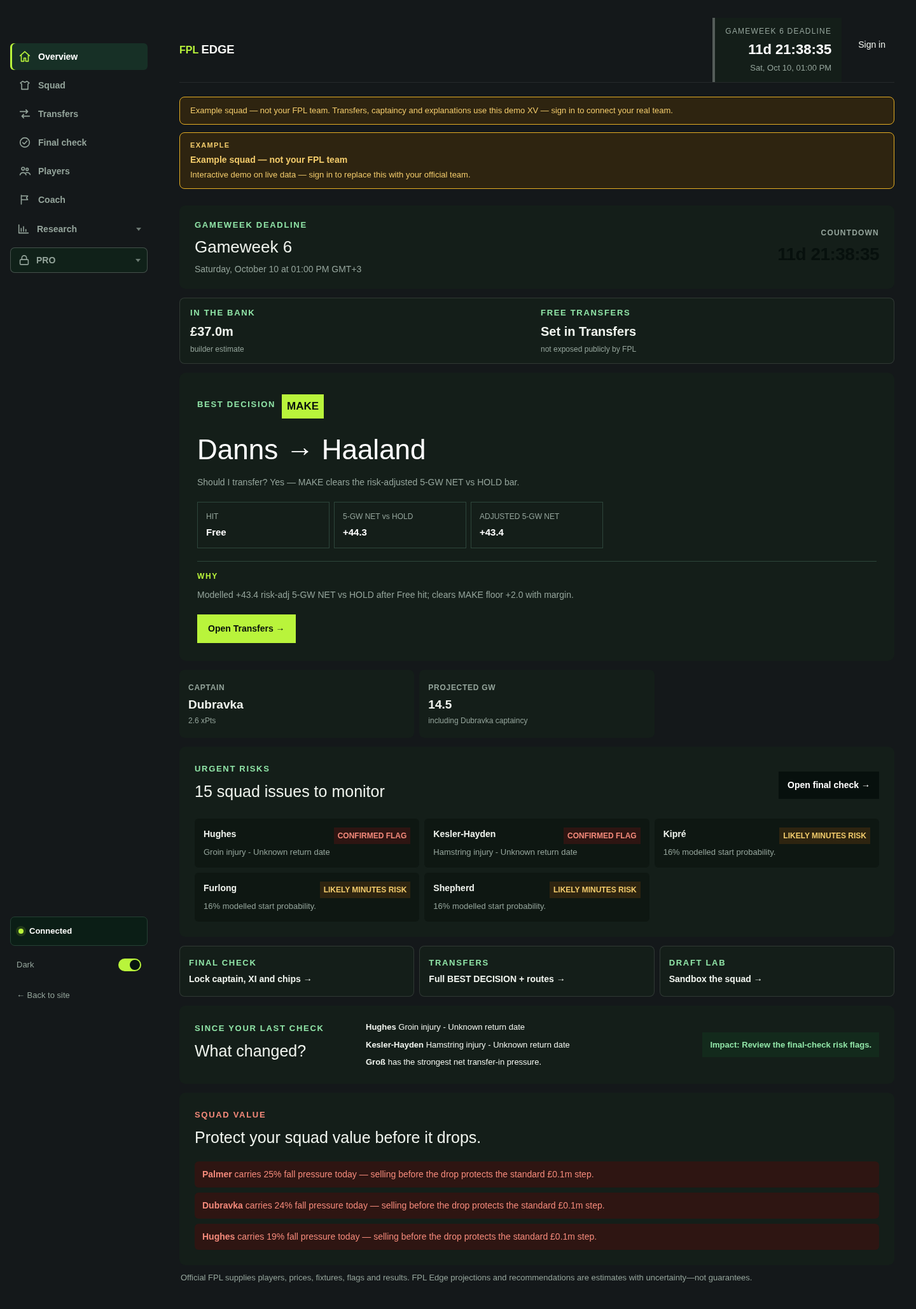
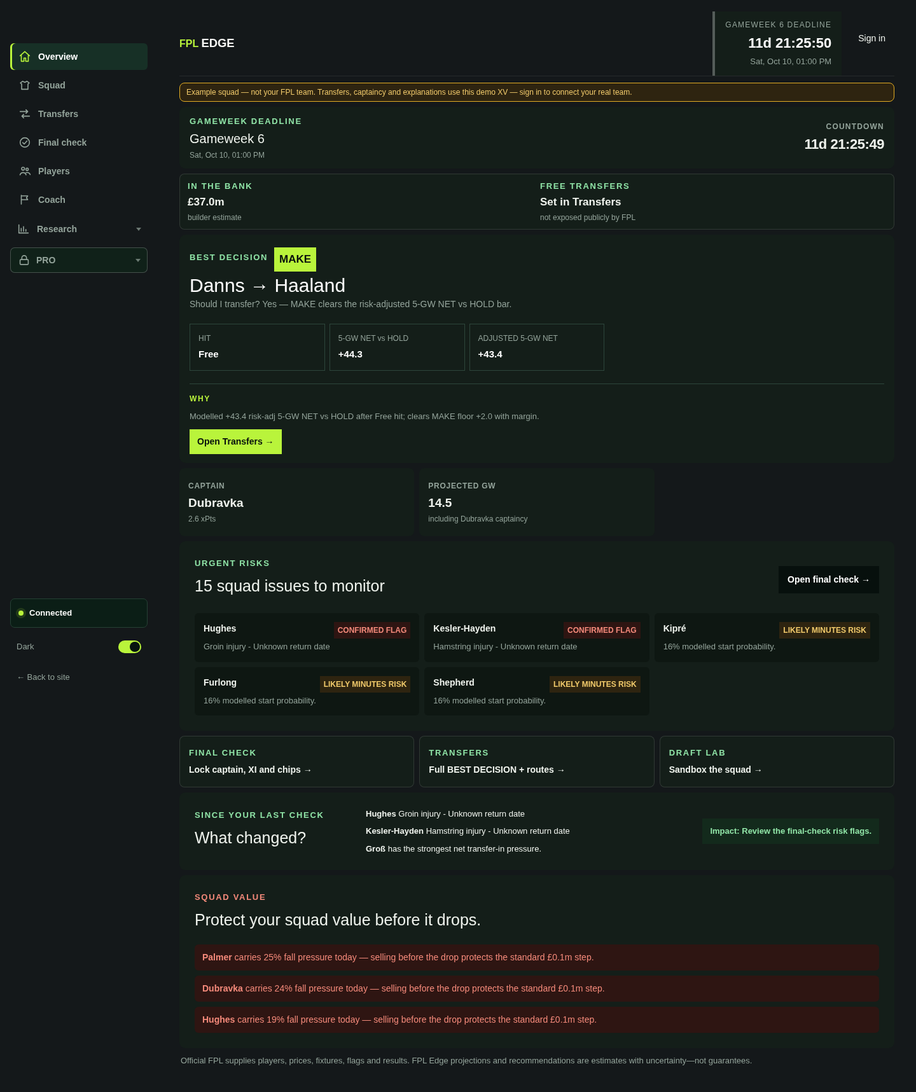
fix(overview): align BEST DECISION with Transfers + fold polish
Share rankTransfersForBestDecision (deep limit 60 + withModelUtilityChange)
between Overview deferred deep and Transfers so the card matches for real,
not just the selector. Keep shallow-first hang-safe first paint.

Countdown uses var(--text) for light/dark readability on surface-card.
Tighten Overview spacing and drop the duplicate demo banner so captain +
projected GW stay in the first desktop viewport. Refresh screenshots
(dark + light).

diff --git a/app/globals.css b/app/globals.css
@@ -81,7 +81,26 @@
    hero-product/brand-mark (step 2) -- a persistent navigation column that
    doesn't flip with the app's light/dark theme, so it uses the canvas-dark/
    canvas-light pair directly rather than the theme-reactive --canvas alias. */
-.coach-sidebar{position:sticky;top:0;height:100vh;background:var(--canvas-dark);color:var(--canvas-light);padding:28px 16px 18px;display:flex;flex-direction:column;z-index:20}.coach-sidebar .sidebar-brand{padding:0 10px;margin-bottom:30px}.coach-sidebar nav{display:flex;flex-direction:column;gap:3px;overflow:auto}.coach-sidebar nav button{border:0;background:transparent;color:var(--text-muted-on-inverse);text-align:left;padding:10px 12px;display:grid;grid-template-columns:24px 1fr;gap:8px;align-items:center;border-radius:6px;font-weight:750;font-size:14px}.coach-sidebar nav button>i{font-style:normal;font-size:16px;text-align:center}.coach-sidebar nav button>span{display:flex;align-items:center;gap:9px}.coach-sidebar nav button small{font-size:12px;color:#4c6258}.coach-sidebar nav button.active{background:#173026;color:#fff;box-shadow:inset 3px 0 var(--lime)}.coach-sidebar nav button.active>i,.coach-sidebar nav button.active small{color:var(--lime)}.coach-data-note{margin-top:auto;border:1px solid #254034;background:#0b1e16;padding:12px;display:flex;align-items:center;gap:9px;border-radius:7px}.coach-data-note b,.coach-data-note small{display:block}.coach-data-note b{font-size:13px}.coach-data-note small{font-size:12px;color:var(--text-muted-on-inverse);margin-top:2px}.fresh-dot{width:8px;height:8px;border-radius:50%;display:inline-block;flex:0 0 auto}.fresh-dot.fresh{background:#9ff01f;box-shadow:0 0 0 4px rgba(159,240,31,.12)}.fresh-dot.aging{background:#f1bf35}.fresh-dot.stale{background:#ef6d5c}.coach-sidebar .back-link{color:var(--text-muted-on-inverse);font-size:13px;margin-top:12px;padding:8px 10px}.theme-toggle{border:0;background:transparent;color:var(--text-muted-on-inverse);text-align:left;font-size:13px;padding:8px 10px;margin-top:12px}.theme-toggle:hover{color:var(--canvas-light)}.coach-main{min-width:0;padding:28px 34px 80px}.coach-header{display:flex;align-items:flex-start;justify-content:space-between;gap:25px;margin-bottom:22px}.coach-header>div:first-child>p{font-size:13px;letter-spacing:.16em;color:var(--text-muted);font-weight:850;margin:0 0 9px}.coach-header h1{font-size:clamp(30px,4vw,54px);letter-spacing:-.045em;line-height:.98;margin:0}.deadline-chip{background:var(--surface-inverse);color:var(--text-on-inverse);border-left:4px solid var(--lime);padding:12px 16px;min-width:225px;display:flex;flex-direction:column;align-items:flex-end}.deadline-chip small{font-size:12px;color:var(--text-muted-on-inverse);letter-spacing:.1em}.deadline-chip b{font-size:22px;color:var(--lime);font-variant-numeric:tabular-nums;margin:3px 0}.deadline-chip span{font-size:13px;color:var(--text-muted-on-inverse)}.freshness-strip{min-height:46px;background:var(--surface-card);border:1px solid var(--line);display:flex;align-items:center;gap:18px;padding:9px 13px;margin-bottom:14px;border-radius:6px}.freshness-strip>div{display:flex;align-items:center;gap:8px}.freshness-strip b,.freshness-strip span{font-size:13px}.freshness-strip span{color:var(--text-muted)}.freshness-strip strong{font-size:13px;color:var(--danger-text)}.freshness-strip button{margin-left:auto;border:1px solid var(--line);background:var(--surface-sunken);padding:8px 13px;font-size:13px;font-weight:800}.freshness-strip.stale{border-color:var(--danger-text);background:var(--danger-bg)}.coach-loading{min-height:380px;background:var(--surface-card);display:grid;place-items:center;align-content:center;gap:14px;border-radius:10px}.coach-loading b{font-size:16px}.coach-loading button,.wide-action{border:0;background:var(--ink);color:var(--text-on-inverse);padding:13px 18px;font-weight:800}.coach-page{display:flex;flex-direction:column;gap:14px}.truth-note{font-size:13px;color:var(--text-muted);line-height:1.6;padding:10px 2px}.connect-hero{background:var(--surface-inverse);color:var(--text-on-inverse);padding:32px;display:grid;grid-template-columns:1fr minmax(300px,420px);gap:34px;align-items:center;border-radius:10px;box-shadow:0 18px 45px rgba(6,17,13,.12)}.connect-hero span,.empty-command span,.command-top span,.urgent-card>header span,.changed-card span,.research-intro span,.fixture-summary span,.news-lead span,.model-trust span,.watchlist-add span,.recommended-move .call-label span,.ranked-moves>header span,.price-intel>header span,.lock-header span,.captain-compare>header span,.model-reality>header span,.dgw-alert span,.board-intro span{font-size:13px;color:var(--success-text);font-weight:900;letter-spacing:.13em}.connect-hero h2{font-size:34px;line-height:1.05;margin:8px 0}.connect-hero p{font-size:14px;color:var(--text-muted-on-inverse);line-height:1.6;margin:0}.connect-hero>div:last-child{display:grid;grid-template-columns:1fr auto}.connect-hero input{min-width:0;border:1px solid var(--wline);background:#0d2119;color:var(--text-on-inverse);padding:15px;font-size:14px}.connect-hero button{border:0;background:var(--lime);color:var(--ink);padding:0 18px;font-weight:900}.connect-hero small{grid-column:1/-1;color:var(--text-muted-on-inverse);font-size:13px;line-height:1.45;margin-top:9px}.empty-command{background:var(--surface-card);border-radius:10px;padding:28px}.empty-command h2{font-size:27px;margin:8px 0}.empty-command p{font-size:14px;color:var(--text-muted)}.empty-command button{border:0;background:var(--ink);color:var(--text-on-inverse);padding:12px 18px;font-weight:800}.overview-deadline{background:var(--surface-card);padding:20px 24px;display:flex;justify-content:space-between;align-items:center;gap:18px;border-radius:9px;flex-wrap:wrap}.overview-deadline span,.overview-status-strip span,.overview-jumps span{font-size:13px;color:var(--success-text);font-weight:900;letter-spacing:.13em}.overview-deadline h2{font-size:26px;margin:5px 0}.overview-deadline p{font-size:14px;color:var(--text-muted);margin:0}.overview-countdown{text-align:right;min-width:140px}.overview-countdown small{display:block;font-size:12px;color:var(--text-muted);letter-spacing:.1em;font-weight:850}.overview-countdown b{display:block;font-size:28px;font-variant-numeric:tabular-nums;color:var(--ink);margin-top:4px;letter-spacing:-.02em}.overview-status-strip{background:var(--surface-card);border:1px solid var(--line);border-radius:8px;padding:12px 16px;display:grid;grid-template-columns:repeat(auto-fit,minmax(140px,1fr));gap:12px}.overview-status-strip b{display:block;font-size:20px;margin:4px 0 2px;font-variant-numeric:tabular-nums}.overview-status-strip small{font-size:12px;color:var(--text-muted)}.overview-best-decision .overview-transfers-link,.overview-best-decision>button.overview-transfers-link{margin-top:16px;border:0;background:var(--lime);color:var(--ink);padding:12px 17px;font-weight:900;cursor:pointer}.overview-captain-metrics{grid-template-columns:repeat(2,1fr)}.overview-jumps{display:grid;grid-template-columns:repeat(3,1fr);gap:8px}.overview-jumps button{border:1px solid var(--line);background:var(--surface-card);padding:16px 14px;text-align:left;border-radius:8px;cursor:pointer;display:flex;flex-direction:column;gap:6px}.overview-jumps button:hover{border-color:var(--ink)}.overview-jumps button b{font-size:14px;font-weight:800;color:var(--text)}
+.coach-sidebar{position:sticky;top:0;height:100vh;background:var(--canvas-dark);color:var(--canvas-light);padding:28px 16px 18px;display:flex;flex-direction:column;z-index:20}.coach-sidebar .sidebar-brand{padding:0 10px;margin-bottom:30px}.coach-sidebar nav{display:flex;flex-direction:column;gap:3px;overflow:auto}.coach-sidebar nav button{border:0;background:transparent;color:var(--text-muted-on-inverse);text-align:left;padding:10px 12px;display:grid;grid-template-columns:24px 1fr;gap:8px;align-items:center;border-radius:6px;font-weight:750;font-size:14px}.coach-sidebar nav button>i{font-style:normal;font-size:16px;text-align:center}.coach-sidebar nav button>span{display:flex;align-items:center;gap:9px}.coach-sidebar nav button small{font-size:12px;color:#4c6258}.coach-sidebar nav button.active{background:#173026;color:#fff;box-shadow:inset 3px 0 var(--lime)}.coach-sidebar nav button.active>i,.coach-sidebar nav button.active small{color:var(--lime)}.coach-data-note{margin-top:auto;border:1px solid #254034;background:#0b1e16;padding:12px;display:flex;align-items:center;gap:9px;border-radius:7px}.coach-data-note b,.coach-data-note small{display:block}.coach-data-note b{font-size:13px}.coach-data-note small{font-size:12px;color:var(--text-muted-on-inverse);margin-top:2px}.fresh-dot{width:8px;height:8px;border-radius:50%;display:inline-block;flex:0 0 auto}.fresh-dot.fresh{background:#9ff01f;box-shadow:0 0 0 4px rgba(159,240,31,.12)}.fresh-dot.aging{background:#f1bf35}.fresh-dot.stale{background:#ef6d5c}.coach-sidebar .back-link{color:var(--text-muted-on-inverse);font-size:13px;margin-top:12px;padding:8px 10px}.theme-toggle{border:0;background:transparent;color:var(--text-muted-on-inverse);text-align:left;font-size:13px;padding:8px 10px;margin-top:12px}.theme-toggle:hover{color:var(--canvas-light)}.coach-main{min-width:0;padding:28px 34px 80px}.coach-header{display:flex;align-items:flex-start;justify-content:space-between;gap:25px;margin-bottom:22px}.coach-header>div:first-child>p{font-size:13px;letter-spacing:.16em;color:var(--text-muted);font-weight:850;margin:0 0 9px}.coach-header h1{font-size:clamp(30px,4vw,54px);letter-spacing:-.045em;line-height:.98;margin:0}.deadline-chip{background:var(--surface-inverse);color:var(--text-on-inverse);border-left:4px solid var(--lime);padding:12px 16px;min-width:225px;display:flex;flex-direction:column;align-items:flex-end}.deadline-chip small{font-size:12px;color:var(--text-muted-on-inverse);letter-spacing:.1em}.deadline-chip b{font-size:22px;color:var(--lime);font-variant-numeric:tabular-nums;margin:3px 0}.deadline-chip span{font-size:13px;color:var(--text-muted-on-inverse)}.freshness-strip{min-height:46px;background:var(--surface-card);border:1px solid var(--line);display:flex;align-items:center;gap:18px;padding:9px 13px;margin-bottom:14px;border-radius:6px}.freshness-strip>div{display:flex;align-items:center;gap:8px}.freshness-strip b,.freshness-strip span{font-size:13px}.freshness-strip span{color:var(--text-muted)}.freshness-strip strong{font-size:13px;color:var(--danger-text)}.freshness-strip button{margin-left:auto;border:1px solid var(--line);background:var(--surface-sunken);padding:8px 13px;font-size:13px;font-weight:800}.freshness-strip.stale{border-color:var(--danger-text);background:var(--danger-bg)}.coach-loading{min-height:380px;background:var(--surface-card);display:grid;place-items:center;align-content:center;gap:14px;border-radius:10px}.coach-loading b{font-size:16px}.coach-loading button,.wide-action{border:0;background:var(--ink);color:var(--text-on-inverse);padding:13px 18px;font-weight:800}.coach-page{display:flex;flex-direction:column;gap:14px}.truth-note{font-size:13px;color:var(--text-muted);line-height:1.6;padding:10px 2px}.connect-hero{background:var(--surface-inverse);color:var(--text-on-inverse);padding:32px;display:grid;grid-template-columns:1fr minmax(300px,420px);gap:34px;align-items:center;border-radius:10px;box-shadow:0 18px 45px rgba(6,17,13,.12)}.connect-hero span,.empty-command span,.command-top span,.urgent-card>header span,.changed-card span,.research-intro span,.fixture-summary span,.news-lead span,.model-trust span,.watchlist-add span,.recommended-move .call-label span,.ranked-moves>header span,.price-intel>header span,.lock-header span,.captain-compare>header span,.model-reality>header span,.dgw-alert span,.board-intro span{font-size:13px;color:var(--success-text);font-weight:900;letter-spacing:.13em}.connect-hero h2{font-size:34px;line-height:1.05;margin:8px 0}.connect-hero p{font-size:14px;color:var(--text-muted-on-inverse);line-height:1.6;margin:0}.connect-hero>div:last-child{display:grid;grid-template-columns:1fr auto}.connect-hero input{min-width:0;border:1px solid var(--wline);background:#0d2119;color:var(--text-on-inverse);padding:15px;font-size:14px}.connect-hero button{border:0;background:var(--lime);color:var(--ink);padding:0 18px;font-weight:900}.connect-hero small{grid-column:1/-1;color:var(--text-muted-on-inverse);font-size:13px;line-height:1.45;margin-top:9px}.empty-command{background:var(--surface-card);border-radius:10px;padding:28px}.empty-command h2{font-size:27px;margin:8px 0}.empty-command p{font-size:14px;color:var(--text-muted)}.empty-command button{border:0;background:var(--ink);color:var(--text-on-inverse);padding:12px 18px;font-weight:800}.overview-deadline{background:var(--surface-card);padding:12px 16px;display:flex;justify-content:space-between;align-items:center;gap:14px;border-radius:9px;flex-wrap:wrap}.overview-deadline span,.overview-status-strip span,.overview-jumps span{font-size:13px;color:var(--success-text);font-weight:900;letter-spacing:.13em}.overview-deadline h2{font-size:20px;margin:2px 0}.overview-deadline p{font-size:14px;color:var(--text-muted);margin:0}.overview-countdown{text-align:right;min-width:140px}.overview-countdown small{display:block;font-size:12px;color:var(--text-muted);letter-spacing:.1em;font-weight:850}.overview-countdown b{display:block;font-size:22px;font-variant-numeric:tabular-nums;color:var(--text);margin-top:2px;letter-spacing:-.02em}.overview-status-strip{background:var(--surface-card);border:1px solid var(--line);border-radius:8px;padding:8px 12px;display:grid;grid-template-columns:repeat(auto-fit,minmax(140px,1fr));gap:10px}.overview-status-strip b{display:block;font-size:17px;margin:2px 0 1px;font-variant-numeric:tabular-nums}.overview-status-strip small{font-size:12px;color:var(--text-muted)}.overview-best-decision .overview-transfers-link,.overview-best-decision>button.overview-transfers-link{margin-top:10px;border:0;background:var(--lime);color:var(--ink);padding:10px 14px;font-weight:900;cursor:pointer}.overview-captain-metrics{grid-template-columns:repeat(2,1fr)}
+.overview-command{gap:8px}
+.overview-deadline-when{font-size:12px!important;color:var(--text-muted);margin:0!important}
+.overview-best-decision.recommended-move{padding:14px 16px}
+.overview-best-decision.recommended-move h2{font-size:clamp(22px,2.8vw,30px);margin:6px 0 4px;line-height:1.05}
+.overview-best-decision .best-decision-lede{margin:0 0 6px;font-size:13px;line-height:1.35;display:-webkit-box;-webkit-line-clamp:2;-webkit-box-orient:vertical;overflow:hidden}
+.overview-best-decision .best-decision-metrics{margin:0 0 6px}
+.overview-best-decision .best-decision-metrics>span{padding:7px 8px}
+.overview-best-decision .engine-why{padding-top:6px;margin:0}
+.overview-best-decision .engine-why .engine-reason-hero{display:-webkit-box;-webkit-line-clamp:2;-webkit-box-orient:vertical;overflow:hidden;font-size:13px!important;line-height:1.35!important}
+.overview-best-decision .overview-transfers-link,.overview-best-decision>button.overview-transfers-link{margin-top:8px;padding:9px 12px}
+.overview-captain-metrics article{padding:10px 12px}
+.overview-captain-metrics b{font-size:17px;margin:4px 0 2px}
+/* Desktop: keep captain + projected in the first viewport under chrome */
+@media(min-width:851px){
+  .coach-main:has(.overview-command){padding-top:18px;padding-bottom:48px}
+  .coach-main:has(.overview-command) .coach-header{margin-bottom:10px}
+  .coach-main:has(.overview-command) .freshness-strip{min-height:0;padding:6px 10px;margin-bottom:8px}
+  .coach-main:has(.overview-command) .example-squad-banner{padding:6px 10px;margin:0 0 8px;font-size:12px;line-height:1.35}
+}.overview-jumps{display:grid;grid-template-columns:repeat(3,1fr);gap:8px}.overview-jumps button{border:1px solid var(--line);background:var(--surface-card);padding:16px 14px;text-align:left;border-radius:8px;cursor:pointer;display:flex;flex-direction:column;gap:6px}.overview-jumps button:hover{border-color:var(--ink)}.overview-jumps button b{font-size:14px;font-weight:800;color:var(--text)}
 @media(max-width:850px){.overview-jumps{grid-template-columns:1fr}.overview-deadline{align-items:flex-start}.overview-countdown{text-align:left}}
 .command-top{background:var(--surface-card);padding:20px 24px;display:flex;justify-content:space-between;align-items:center;border-radius:9px}.command-top h2{font-size:26px;margin:5px 0}.command-top p{font-size:14px;color:var(--text-muted);margin:0}.weekly-call{background:var(--surface-inverse);color:var(--text-on-inverse);border-radius:11px;padding:30px 32px;position:relative;overflow:hidden;box-shadow:0 20px 45px rgba(6,17,13,.14)}.weekly-call:after{content:"";position:absolute;width:240px;height:240px;border:1px solid var(--wline);border-radius:50%;right:-70px;top:-90px}.call-label{display:flex;align-items:center;gap:10px}.call-label span{color:var(--lime);font-size:13px;letter-spacing:.14em;font-weight:900}.call-label b{font-size:12px;color:var(--text-muted-on-inverse);border:1px solid var(--wline);padding:5px 7px}.weekly-call h2{font-size:clamp(34px,5vw,62px);line-height:.95;letter-spacing:-.05em;margin:18px 0}.weekly-call ul{display:grid;grid-template-columns:repeat(3,1fr);gap:18px;margin:0 0 22px;padding:0;list-style:none;max-width:900px;position:relative;z-index:1}.weekly-call li{font-size:14px;line-height:1.55;color:var(--text-muted-on-inverse);border-left:2px solid var(--wline);padding-left:12px}.weekly-call button{position:relative;z-index:1;border:0;background:var(--lime);color:var(--ink);padding:12px 17px;font-weight:900}.command-metrics{display:grid;grid-template-columns:repeat(3,1fr);gap:8px}.command-metrics article{background:var(--surface-card);padding:17px 14px;border-radius:8px;min-width:0}.command-metrics span{font-size:12px;color:var(--text-muted);font-weight:850;letter-spacing:.06em}.command-metrics b{font-size:19px;display:block;margin:7px 0 4px;line-height:1.05;overflow-wrap:anywhere}.command-metrics small{font-size:12px;color:var(--text-muted)}.command-metrics-secondary{background:var(--surface-card);border:1px solid var(--line);border-radius:8px;padding:10px 14px;color:var(--text-muted)}.command-metrics-secondary>summary{cursor:pointer;font-size:13px;font-weight:800;letter-spacing:.08em;text-transform:uppercase;list-style:none;display:flex;align-items:center;justify-content:space-between;min-height:36px;color:var(--text-muted)}.command-metrics-secondary>summary::-webkit-details-marker{display:none}.command-metrics-secondary>summary:after{content:"+";font-size:14px;font-weight:700;color:var(--text-muted)}.command-metrics-secondary[open]>summary:after{content:"–"}.command-metrics-secondary-grid{display:grid;grid-template-columns:repeat(4,1fr);gap:8px;margin-top:10px;padding-top:10px;border-top:1px solid var(--line)}.command-metrics-secondary-grid article{background:var(--surface-sunken);padding:12px 11px;border-radius:6px;min-width:0;opacity:.92}.command-metrics-secondary-grid span{font-size:12px;color:var(--text-muted);font-weight:850;letter-spacing:.06em}.command-metrics-secondary-grid b{font-size:15px;display:block;margin:5px 0 3px;line-height:1.05;overflow-wrap:anywhere;color:var(--text)}.command-metrics-secondary-grid small{font-size:12px;color:var(--text-muted)}.urgent-card,.changed-card,.research-intro,.fixture-summary,.news-lead,.model-trust,.watchlist-add,.lock-header,.dgw-alert,.board-intro{background:var(--surface-card);border-radius:9px;padding:24px}.urgent-card>header,.research-intro,.fixture-summary,.news-lead,.model-trust,.watchlist-add,.lock-header,.board-intro{display:flex;justify-content:space-between;align-items:center;gap:22px}.urgent-card h2,.changed-card h2,.research-intro h2,.fixture-summary h2,.news-lead h2,.model-trust h2,.watchlist-add h2,.lock-header h2,.dgw-alert h2,.board-intro h2{font-size:25px;margin:7px 0}.urgent-card>header button,.news-lead button,.model-trust>button,.watchlist-add>button,.board-intro>button{border:0;background:var(--ink);color:var(--text-on-inverse);padding:11px 14px;font-weight:800}.board-intro>button:disabled{opacity:.5;cursor:not-allowed}.urgent-card>div{display:grid;grid-template-columns:repeat(3,1fr);gap:8px;margin-top:16px}.urgent-card article{background:var(--surface-sunken);padding:14px;border-radius:6px}.urgent-card article b{font-size:14px}.urgent-card article span{float:right;font-size:12px;padding:4px 6px;font-weight:900}.urgent-card article .bad{background:var(--danger-bg);color:var(--danger-text)}.urgent-card article .warn{background:var(--warning-bg);color:var(--warning-text)}.urgent-card article p{font-size:13px;line-height:1.45;margin:9px 0 0;color:var(--text-muted)}.changed-card{display:grid;grid-template-columns:230px 1fr auto;gap:24px;align-items:center}.changed-card>div:nth-child(2){display:flex;flex-direction:column;gap:8px}.changed-card p{font-size:13px;margin:0}.changed-card p i{display:inline-block;width:7px;height:7px;border-radius:50%;margin-right:8px}.changed-card strong{font-size:13px;background:var(--success-bg);padding:10px 12px;color:var(--success-text)}
 .dgw-alert{display:flex;flex-direction:column;gap:12px}

diff --git a/app/components/CoachApp.tsx b/app/components/CoachApp.tsx
@@ -302,7 +302,7 @@ function Page({view,data,go,revision,onTeamChange,desk,onUpgrade,onLoadExample,e
   if(desk==="free"&&view==="board")return <SeasonLocked feature="Multi-week transfer planning is part of the season pass." onUpgrade={onUpgrade}/>;
   if(desk==="free"&&view==="history")return <SeasonLocked feature="Decision history is part of the season pass." onUpgrade={onUpgrade}/>;
   const fullDesk=desk!=="free";
-  if(view==="overview")return <Overview data={data} go={go} revision={revision} onTeamChange={onTeamChange} onLoadExample={onLoadExample} exampleActive={exampleActive} onClearExample={onClearExample}/>;
+  if(view==="overview")return <Overview data={data} go={go} revision={revision} onTeamChange={onTeamChange} onLoadExample={onLoadExample} onClearExample={onClearExample}/>;
   if(view==="team")return <Team data={data} go={go} revision={revision} onTeamChange={onTeamChange} fullDesk={fullDesk} onUpgrade={onUpgrade}/>;
   if(view==="transfers")return <Transfers data={data} go={go} revision={revision} onTeamChange={onTeamChange} fullDesk={fullDesk} onUpgrade={onUpgrade}/>;
   if(view==="league")return <MiniLeagueWarRoom revision={revision} onGoToTeam={()=>go("team")}/>;
@@ -486,6 +486,24 @@ export function withModelUtilityChange(rows:Transfer[],squad:FplPlayer[],optimiz
   return sortTransfersByQuality(adjustedRows);
 }
 
+/** Shared Transfers ranking pipeline before selectBestDecision: deep limit 60 + model utility.
+ *  Overview deferred deep must call this (not hang-safe restricted budgets alone) so BEST DECISION matches. */
+export function rankTransfersForBestDecision(
+  data:FplData,
+  squad:FplPlayer[],
+  bank:number,
+  freeTransfers:number,
+  sellingPrices:Map<number,number>,
+  optimizer:ReturnType<typeof createOptimizer>|null,
+  options?:{wildcardActive?:boolean},
+):Transfer[]{
+  const base=bestTransfers(data,squad,bank,freeTransfers,60,sellingPrices,{
+    mode:"deep",
+    wildcardActive:options?.wildcardActive===true,
+  });
+  return withModelUtilityChange(base,squad,optimizer);
+}
+
 function OverviewDeadlineStrip({event}:{event:{name:string;deadline:string}}){
   const[now,setNow]=useState(Date.now());
   useEffect(()=>{const id=setInterval(()=>setNow(Date.now()),1000);return()=>clearInterval(id)},[]);
@@ -494,7 +512,7 @@ function OverviewDeadlineStrip({event}:{event:{name:string;deadline:string}}){
   const clock=`${d?`${d}d `:""}${String(h).padStart(2,"0")}:${String(m).padStart(2,"0")}:${String(s).padStart(2,"0")}`;
   return <section className="overview-deadline" aria-label="Gameweek deadline">
     <div><span>GAMEWEEK DEADLINE</span><h2>{event.name}</h2>
-      <p>{new Date(event.deadline).toLocaleString([],{weekday:"long",day:"numeric",month:"long",hour:"2-digit",minute:"2-digit",timeZoneName:"short"})}</p>
+      <p className="overview-deadline-when">{new Date(event.deadline).toLocaleString([],{weekday:"short",day:"numeric",month:"short",hour:"2-digit",minute:"2-digit"})}</p>
     </div>
     <div className="overview-countdown" aria-label="Countdown"><small>COUNTDOWN</small><b>{clock}</b></div>
   </section>;
@@ -505,16 +523,17 @@ function rankingFreeTransfersForDecision(meta:ManagerMeta|null|undefined):number
   return authoritativeFreeTransfers(meta);
 }
 
-function Overview({data,go,revision,onTeamChange,onLoadExample,exampleActive,onClearExample}:{data:FplData;go:(v:View)=>void;revision:number;onTeamChange:()=>void;onLoadExample:()=>void;exampleActive:boolean;onClearExample:()=>void}){
+function Overview({data,go,revision,onTeamChange,onLoadExample,onClearExample}:{data:FplData;go:(v:View)=>void;revision:number;onTeamChange:()=>void;onLoadExample:()=>void;onClearExample:()=>void}){
   const[meta,setMeta]=useManager(revision);
   const squad=useMemo(()=>savedSquad(data),[data,revision,meta]);
   const a=analysis(data,squad);
   const finance=useMemo(()=>deriveSandboxFinancialContext(squad,data.rules.budget,meta),[squad,data.rules.budget,meta]);
   const wildcardActive=managerWildcardActive(meta);
   const fts=rankingFreeTransfersForDecision(meta);
+  const optimizer=useMemo(()=>createOptimizer(data,"Balanced 5 GWs","Balanced","Maximum xPts"),[data]);
   // ASSERT — hang-safe Overview path (OVERVIEW_HANG_HOTFIX): sync shallow first paint; deep only via scheduleDeferred.
-  // Do NOT reintroduce blocking planner work or OVERVIEW_TRANSFER_RULES edits.
-  // BEST DECISION uses selectBestDecision — same selector + FT/hit/wildcard inputs as Transfers.
+  // Do NOT reintroduce blocking planner work on the critical path. Deferred deep uses the SAME Transfers
+  // pipeline (limit 60 + withModelUtilityChange via rankTransfersForBestDecision) so BEST DECISION matches.
   const shallowMoves=useMemo(()=>{
     if(!a||finance.source==="unavailable"||isRankingFinanceUnavailable(meta))return [] as Transfer[];
     return bestTransfers(data,squad,finance.baselineBank,fts,12,finance.baselineSellingPrices,{profile:"overview",mode:"shallow",wildcardActive});
@@ -525,17 +544,15 @@ function Overview({data,go,revision,onTeamChange,onLoadExample,exampleActive,onC
     if(!a||finance.source==="unavailable"||isRankingFinanceUnavailable(meta))return;
     const handle=scheduleDeferred(()=>{
       try{
-        // Deferred deep upgrade: same mode/wildcard/FT/bank as Transfers; hang-safe budgets kept on Overview.
-        const upgraded=bestTransfers(data,squad,finance.baselineBank,fts,12,finance.baselineSellingPrices,{
-          mode:"deep",
-          wildcardActive,
-          rules:{maxEvalCandidates:16,maxPlanNodes:2500,planTimeBudgetMs:120,futureBeamWidth:4,candidatePoolPerPosition:8},
-        });
+        // Deferred deep upgrade: identical ranking/utility pipeline as Transfers (not hang-safe restricted budgets).
+        const upgraded=rankTransfersForBestDecision(
+          data,squad,finance.baselineBank,fts,finance.baselineSellingPrices,optimizer,{wildcardActive},
+        );
         setMoves(upgraded);
       }catch{/* keep shallow */}
     },{timeout:500,delayMs:50});
     return()=>handle.cancel();
-  },[data,squad,finance,meta,shallowMoves,a,fts,wildcardActive]);
+  },[data,squad,finance,meta,shallowMoves,a,fts,wildcardActive,optimizer]);
   const decision=selectBestDecision(moves);
   const decisionHold=Boolean(!decision||decision.isHold||decision.classification==="HOLD");
   const decisionClass=decisionHold?(wildcardActive?"KEEP":"HOLD"):(decision!.classification??"MAKE");
@@ -581,9 +598,8 @@ function Overview({data,go,revision,onTeamChange,onLoadExample,exampleActive,onC
     ?"reconnect FPL for live bank"
     :meta?(meta.bankSource==="live-my-team"?"live FPL transfer bank":meta.liveOverlayError?"live bank unavailable":"official public data"):"builder estimate";
 
-  return <div className="coach-page">
-    {exampleActive&&<section className="example-squad-banner" role="status"><span>EXAMPLE</span><b>{EXAMPLE_SQUAD_LABEL}</b><p>Interactive demo on live data — sign in to replace this with your official team.</p></section>}
-
+  return <div className="coach-page overview-command">
+    {/* Demo banner lives in coach chrome once — omit duplicate here so captain+projected stay above the fold. */}
     <OverviewDeadlineStrip event={next}/>
 
     {/* Known finance / chip only — no freshness tech chip (public Connected/Not connected lives in header/sidebar from #89). */}
@@ -1169,22 +1185,22 @@ function Transfers({data,go,revision,onTeamChange,fullDesk,onUpgrade}:{data:FplD
   const rankingBlocked=finance.source==="unavailable"||isRankingFinanceUnavailable(meta);
   const bank=finance.baselineBank;
   const sellingPrices=finance.baselineSellingPrices;
-  const [baseRows,setBaseRows]=useState<Transfer[]>([]);
+  const [rows,setRows]=useState<Transfer[]>([]);
   useEffect(()=>{
-    if(!a||rankingBlocked){setBaseRows([]);return;}
+    if(!a||rankingBlocked){setRows([]);return;}
     let cancelled=false;
     // Deep type-B ranking is deferred off first paint (idle / timeout) — never sync-hang Transfers.
+    // Shared with Overview deferred deep via rankTransfersForBestDecision (limit 60 + model utility).
     const handle=scheduleDeferred(()=>{
       if(cancelled)return;
       try{
-        setBaseRows(bestTransfers(data,squad,bank,fts,60,sellingPrices,{mode:"deep",wildcardActive}));
+        setRows(rankTransfersForBestDecision(data,squad,bank,fts,sellingPrices,optimizer,{wildcardActive}));
       }catch{
-        if(!cancelled)setBaseRows([]);
+        if(!cancelled)setRows([]);
       }
     },{timeout:600,delayMs:16});
     return ()=>{cancelled=true;handle.cancel()};
-  },[data,squad,bank,fts,a,sellingPrices,rankingBlocked,wildcardActive]);
-  const rows=useMemo(()=>withModelUtilityChange(baseRows,squad,optimizer),[baseRows,squad,optimizer]);
+  },[data,squad,bank,fts,a,sellingPrices,rankingBlocked,wildcardActive,optimizer]);
   const routes=useMemo(()=>rankingBlocked?[]:solveTransferRoutes(data,squad,bank,{horizon:routeHorizon,freeTransfers:fts,maxWeeklyHit,sellingPrices,resultLimit:4,plannedChips:readPlannedChips()}),[data,squad,bank,fts,routeHorizon,maxWeeklyHit,sellingPrices,rankingBlocked]);
   const best=selectPrimaryTransfer(rows);const roll=!best;
   const decision=selectBestDecision(rows);
